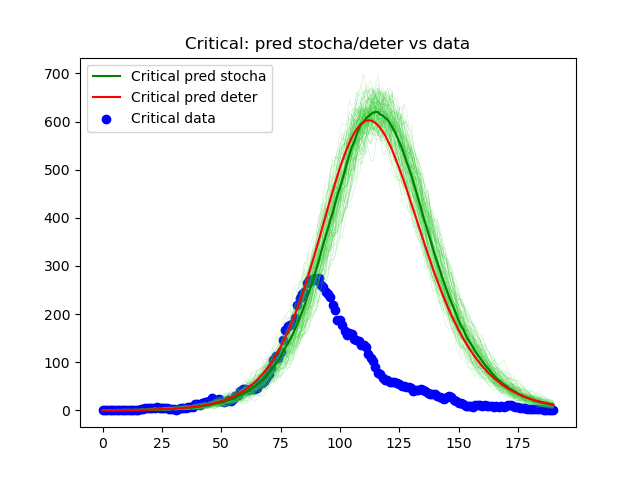
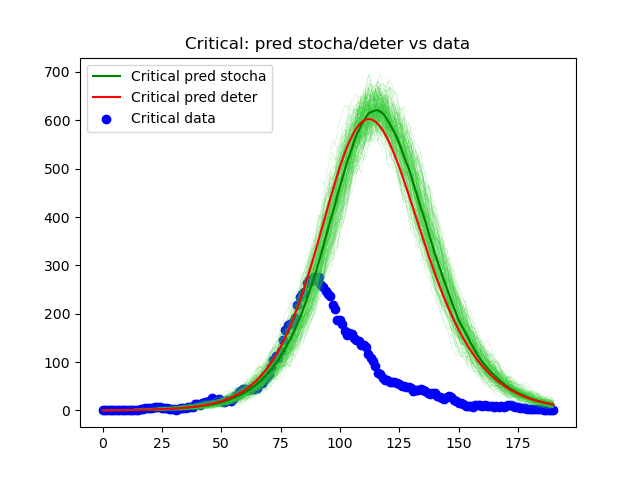
upd

diff --git a/Reboot_Q2/main.py b/Reboot_Q2/main.py
@@ -5,7 +5,7 @@ import matplotlib.pyplot as plt
 from SEIR import SEIR
 
 if __name__ == "__main__":
-    nb_sim = 100
+    nb_sim = 150
     # --------------------------- Create the model --------------------------- #
     print('Phase 1: ')
     # Create the model:
@@ -176,10 +176,10 @@ if __name__ == "__main__":
     for i in range(0, nb_sim):
         plt.plot(time, pred_sto[:, 7, i]*model.t*model.s, color='limegreen', linewidth=0.1)
     plt.plot(time, pred_sto_mean[:, 7]*model.t*model.s, color='green', label='Stochastic conta')
-    plt.plot(time, pred_det[:, 7]*model.t*model.s, color='red', label='Deterministic conta')
+    #plt.plot(time, pred_det[:, 7]*model.t*model.s, color='red', label='Deterministic conta')
     plt.scatter(time, delau_np[:, 7], color='blue', label='Testing data')
     plt.legend()
-    plt.title('Cumulative testing data vs pred')
+    plt.title('Cumulative testing: data vs predictions')
     #plt.show()
     plt.savefig('fig/scenar_1_cum_test_190.png')
     plt.close()
@@ -188,10 +188,10 @@ if __name__ == "__main__":
     for i in range(0, nb_sim):
         plt.plot(time, pred_sto[:, 4, i], color='limegreen', linewidth=0.1)
     plt.plot(time, pred_sto_mean[:, 4], color='green', label='Hospit pred stocha')
-    plt.plot(time, pred_det[:, 4], color='red', label='Hospit pred deter')
+    #plt.plot(time, pred_det[:, 4], color='red', label='Hospit pred deter')
     plt.scatter(time, delau_np[:, 3], color='blue', label='Hospit data')
     plt.legend()
-    plt.title('Hospit: pred stocha/deter vs data')
+    plt.title('Hospitalizations: data vs predictions')
     #plt.show()
     plt.savefig('fig/scenar_1_hospit_190.png')
     plt.close()
@@ -200,10 +200,10 @@ if __name__ == "__main__":
     for i in range(0, nb_sim):
         plt.plot(time, pred_sto[:, 5, i], color='limegreen', linewidth=0.1)
     plt.plot(time, pred_sto_mean[:, 5], color='green', label='Critical pred stocha')
-    plt.plot(time, pred_det[:, 5], color='red', label='Critical pred deter')
+    #plt.plot(time, pred_det[:, 5], color='red', label='Critical pred deter')
     plt.scatter(time, delau_np[:, 5], color='blue', label='Critical data')
     plt.legend()
-    plt.title('Critical: pred stocha/deter vs data')
+    plt.title('Critical: data vs predictions')
     #plt.show()
     plt.savefig('fig/scenar_1_critical_190.png')
     plt.close()
@@ -212,10 +212,10 @@ if __name__ == "__main__":
     for i in range(0, nb_sim):
         plt.plot(time, pred_sto[:, 6, i], color='limegreen', linewidth=0.1)
     plt.plot(time, pred_sto_mean[:, 6], color='green', label='Fatalities pred stocha')
-    plt.plot(time, pred_det[:, 6], color='red', label='Fatalities pred deter')
+    #plt.plot(time, pred_det[:, 6], color='red', label='Fatalities pred deter')
     plt.scatter(time, delau_np[:, 6], color='blue', label='Fatalities data')
     plt.legend()
-    plt.title('Fatalities: pred stocha/deter vs data')
+    plt.title('Fatalities: data vs predictions')
     # plt.show()
     plt.savefig('fig/scenar_1_fatal_190.png')
     plt.close()

diff --git a/Reboot_Q2/main3.py b/Reboot_Q2/main3.py
@@ -65,7 +65,7 @@ if __name__ == "__main__":
     time = np.arange(delau_np.shape[0])
 
 
-    plt.fill_between(time, sto_hq[:, 7], sto_lq[:, 7], color='lavender', alpha=0.7)
+    plt.fill_between(time, sto_hq[:, 7]*model.t*model.s, sto_lq[:, 7]*model.t*model.s, color='lavender', alpha=0.7)
     plt.plot(time, pred_sto_mean[:, 7]*model.t*model.s, color='black', label='Stochastic cumulative conta. Mean')
     plt.scatter(time, delau_np[:, 7], color='blue', label='Testing Cumulative data')
     plt.legend()
